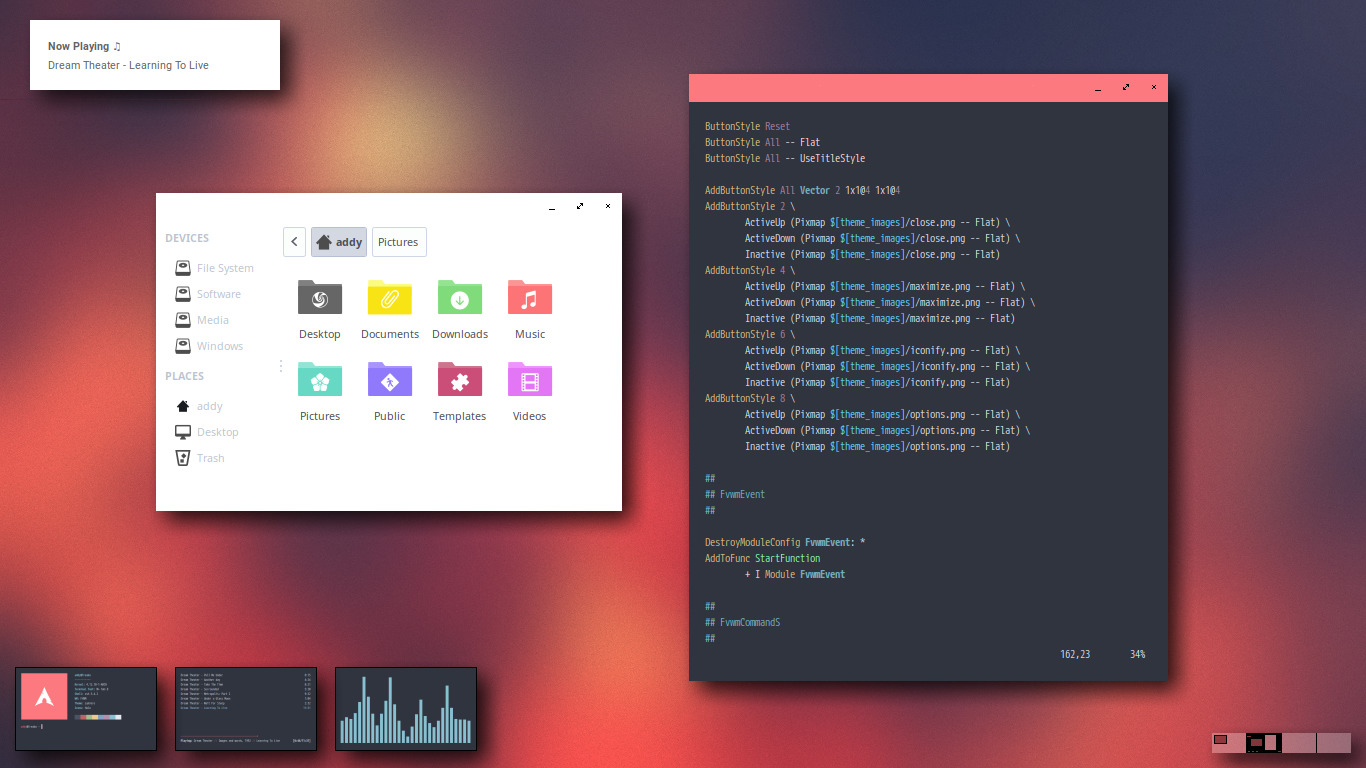
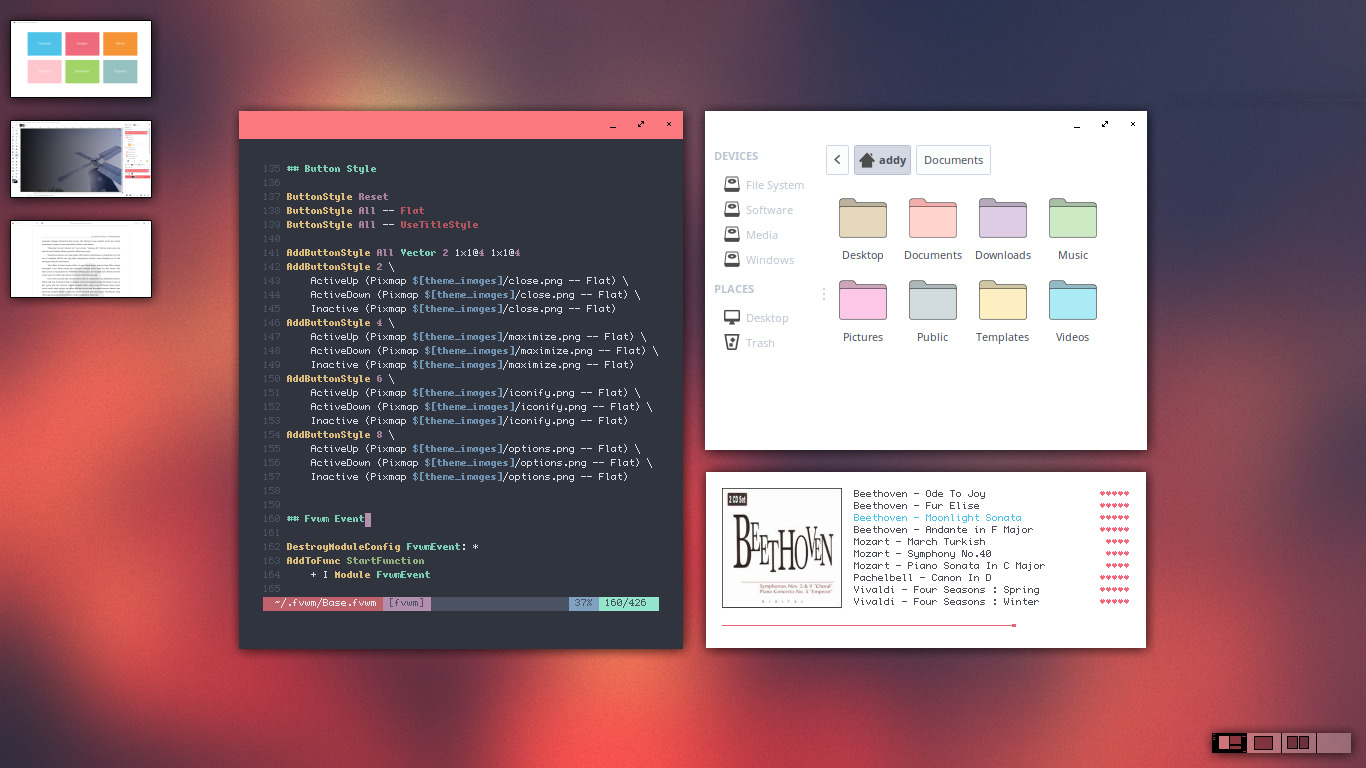
Comment : add xfce terminal config and some files on Sat Jan 13 01:15:50 WIB 2018

diff --git a/README.md b/README.md
@@ -46,7 +46,7 @@ EDIT : I have migrated to Debian, mostly work
 
 ## Fvwm : Abstract
 ![alt text](https://raw.githubusercontent.com/addy-dclxvi/almighty-dotfiles/master/preview-fvwm.jpg) <br />
-**Stuff in the screenshot** : Fvwm Pager, Minimized to Thumbnail module (neofetch, ncmpcpp, and CAVA), Thunar, vim inside termite, and dunst. I haven't pushed this, too lazy to fix some problem. This WM really drain my patience (╯°□°）╯︵ ┻━┻ <br />
+**Stuff in the screenshot** : Fvwm Pager, Minimized to Thumbnail module (Firefox, GIMP, and Evince), Thunar, vim inside termite, and ncmpcpp. I haven't pushed this, too lazy to fix some problem. This WM really drain my patience (╯°□°）╯︵ ┻━┻ <br />
 
 
 ## Containing
